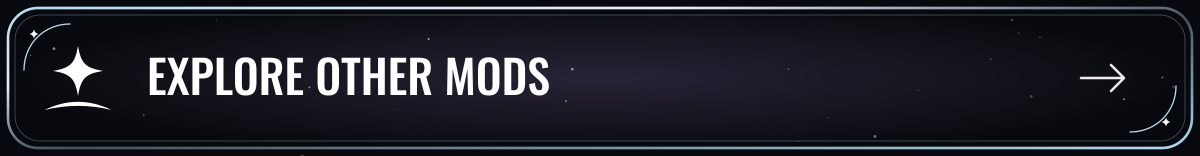
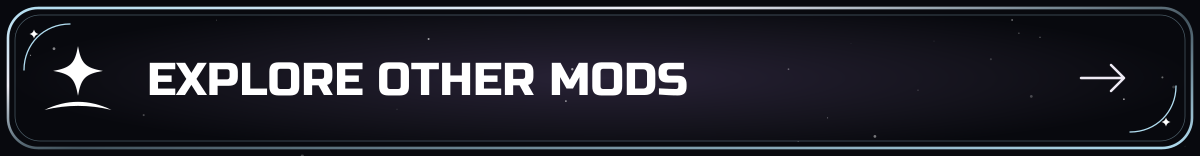
Improve mod covers and support artwork with Russo One

Changed region(s): [[0.1233, 0.359, 0.5858, 0.6154]]

diff --git a/assets/SOURCES.md b/assets/SOURCES.md
@@ -6,7 +6,7 @@ The three ISEKAI covers use frame 0 of the **800 × 450** [original artwork](htt
 
 The unpublished **RimSaves Russian-translation cover example** uses the original preview from [RimSaves](https://steamcommunity.com/sharedfiles/filedetails/?id=1713367505), by **aRandomKiwi**. It preserves the RimSaves wordmark and adds a Russian label, flag, logo and frame. The source is 1047 × 595; the example is 800 × 450 without upscaling. This preview does not mean that a RimSaves translation is included in this repository.
 
-Typography is rendered from **Oswald**, distributed under the [SIL Open Font License](https://fonts.google.com/specimen/Oswald/license). The font software is not included here; the published assets are rendered PNG images.
+Typography is rendered from **Russo One**, distributed under the [SIL Open Font License](https://github.com/google/fonts/blob/main/ofl/russoone/OFL.txt). The font software is not included here; the published assets are rendered PNG images.
 
 Each mod’s MIT license covers its code, not these original illustrations, game imagery or trademarks. Attribution does not grant a new license to third-party material; those rights remain with their owners.
 
